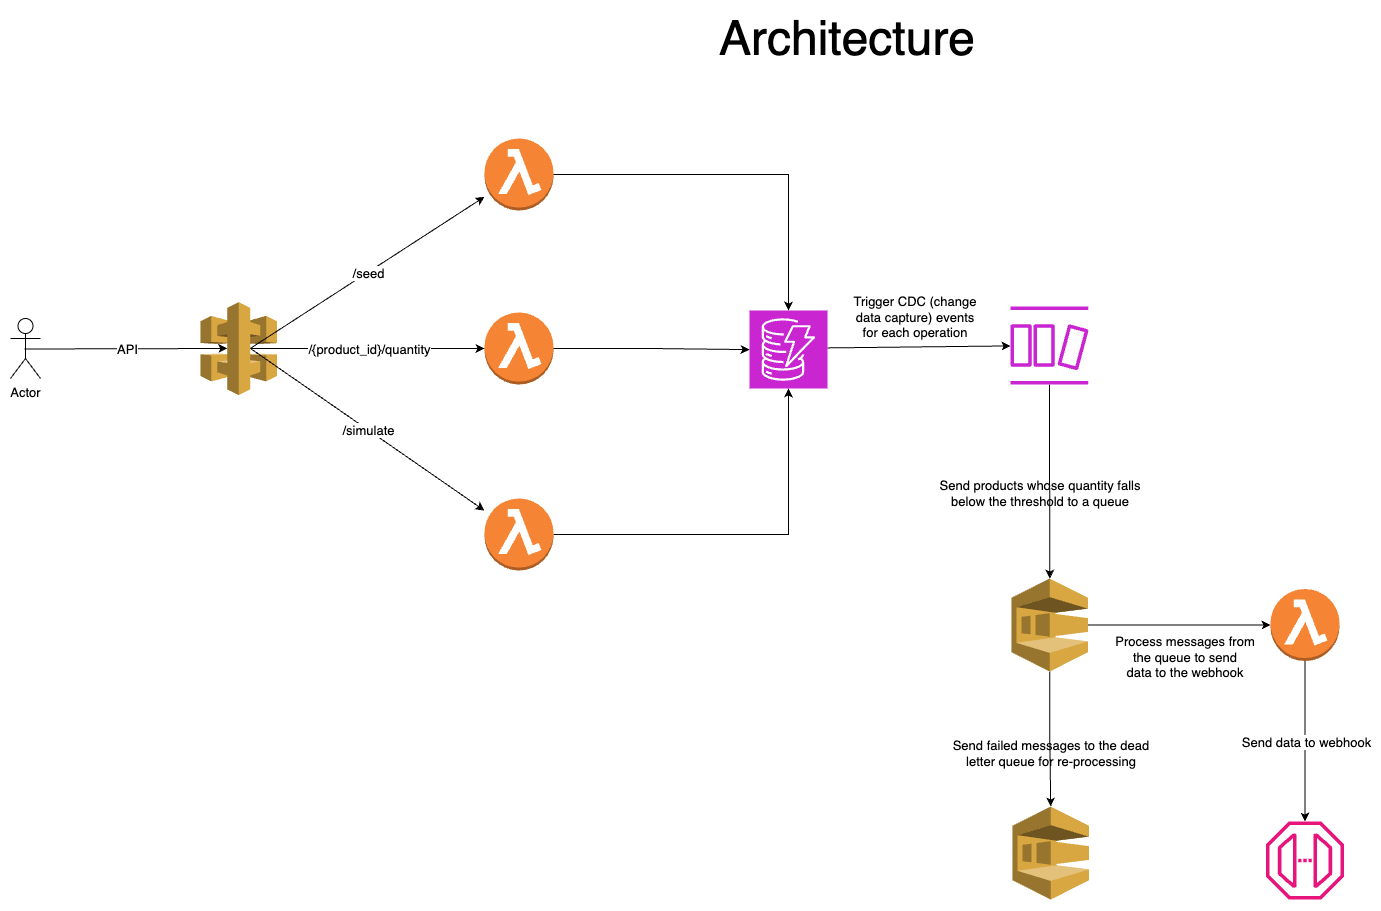
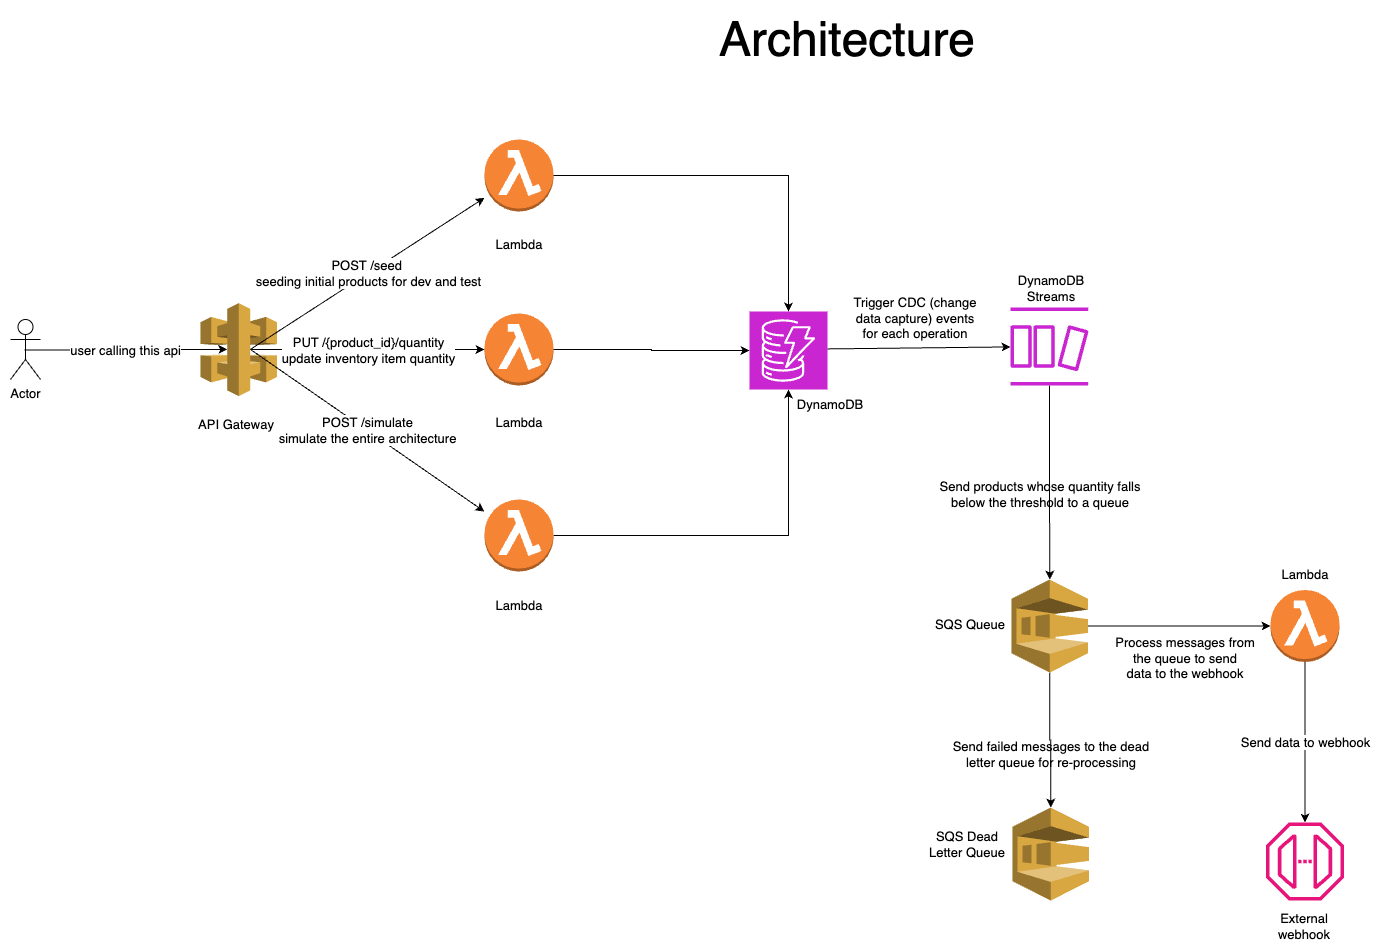
fix: add relevant comments and annotate architecture diagram

diff --git a/lib/case-study-stack.ts b/lib/case-study-stack.ts
@@ -1,3 +1,4 @@
+// The main stack with all resources defined
 import * as cdk from 'aws-cdk-lib';
 import * as ddb from 'aws-cdk-lib/aws-dynamodb';
 import * as apiGw from 'aws-cdk-lib/aws-apigatewayv2';
@@ -75,6 +76,7 @@ export class CaseStudyStack extends cdk.Stack {
       environment: { WEBHOOK_URL: webhookApi.apiEndpoint },
     });
 
+    // event source for polling messages from the queue
     sendProductDetails.fn.addEventSource(
       new SqsEventSource(inventoryThresholdQueue.queue, {
         batchSize: 20,
@@ -91,6 +93,7 @@ export class CaseStudyStack extends cdk.Stack {
       bisectBatchOnError: true,
     });
 
+    // lambda to send events to the SQS queue
     const lambdaStreamHandler = new LambdaFunction(
       this,
       'lambdaStreamHandler',
@@ -111,7 +114,7 @@ export class CaseStudyStack extends cdk.Stack {
     apiGatewayLogs.grantWrite(
       new iam.ServicePrincipal('apigateway.amazonaws.com'),
     );
-    // HTTP API
+    // HTTP API - API Gateway
     const api = new apiGw.HttpApi(this, 'productsApi', {
       corsPreflight: {
         allowMethods: [apiGw.CorsHttpMethod.ANY],
@@ -120,7 +123,7 @@ export class CaseStudyStack extends cdk.Stack {
       createDefaultStage: true,
     });
 
-    // enable access logging
+    // enable api access logging
     const stage = api.defaultStage!.node.defaultChild as apiGw.CfnStage;
     stage.accessLogSettings = {
       destinationArn: apiGatewayLogs.logGroupArn,
@@ -136,6 +139,7 @@ export class CaseStudyStack extends cdk.Stack {
       }),
     };
 
+    // lambda to seed products (for development only)
     const seedProductsFn = new LambdaFunction(this, 'seedProducts', {
       environment: { TABLE_NAME: productTable.tableName },
     });
@@ -151,6 +155,7 @@ export class CaseStudyStack extends cdk.Stack {
       ),
     });
 
+    // lambda to set inventory level of a given product
     const setInventoryLevelFn = new LambdaFunction(this, 'setInventoryLevel', {
       environment: { TABLE_NAME: productTable.tableName },
     });

diff --git a/functions/lambdaStreamHandler.ts b/functions/lambdaStreamHandler.ts
@@ -1,9 +1,10 @@
+// this lambda handles the events from the DynamoDB stream and sends them to SQS for further processing
 import { DynamoDBStreamHandler, StreamRecord } from 'aws-lambda';
 import { SQSClient, SendMessageCommand } from '@aws-sdk/client-sqs';
 import { z } from 'zod';
-import { defaultEnvVars, logger } from './helpers/schemas';
+import { DefaultEnvironmentVariablesSchema, logger } from './helpers/schemas';
 
-const envSchema = defaultEnvVars.extend({
+const EnvironmentVariablesSchema = DefaultEnvironmentVariablesSchema.extend({
   QUEUE_URL: z.string(),
 });
 
@@ -22,6 +23,7 @@ export const handler: DynamoDBStreamHandler = async (event) => {
       const { NewImage, SequenceNumber } = record.dynamodb;
       if (!NewImage || !SequenceNumber) return;
 
+      // add sequence number to return failed items if there are any
       return Object.assign(NewImage, { streamId: SequenceNumber });
     }
     return;
@@ -44,7 +46,7 @@ type FailedItem = { itemIdentifier: string };
 const sendForProcessing = async (
   records: NonNullable<Image[]>,
 ): Promise<FailedItem[]> => {
-  const envs = envSchema.parse(process.env);
+  const envs = EnvironmentVariablesSchema.parse(process.env);
   logger.info(`Sending ${records.length} records to SQS for processing`);
 
   const results = await Promise.allSettled(

diff --git a/bin/case-study.ts b/bin/case-study.ts
@@ -2,14 +2,14 @@
 import 'source-map-support/register';
 import * as cdk from 'aws-cdk-lib';
 import { AwsSolutionsChecks } from 'cdk-nag';
-import { envs } from '../lib/utils';
+import { environmentVariables } from '../lib/utils';
 import { CaseStudyStack } from '../lib/case-study-stack';
 
 const app = new cdk.App();
 new CaseStudyStack(app, 'CaseStudyStack', {
   env: {
-    account: envs.AWS_ACCOUNT_ID,
-    region: envs.AWS_REGION,
+    account: environmentVariables.AWS_ACCOUNT_ID,
+    region: environmentVariables.AWS_REGION,
   },
   removeResourcesOnStackDeletion: true,
 });
@@ -17,4 +17,4 @@ new CaseStudyStack(app, 'CaseStudyStack', {
 // Add the cdk-nag AwsSolutions Pack with extra verbose logging enabled.
 cdk.Aspects.of(app).add(new AwsSolutionsChecks({ verbose: true }));
 // project specific tags (will also help consolidate CloudWatch logs)
-cdk.Tags.of(app).add('environment', envs.ENV);
+cdk.Tags.of(app).add('environment', environmentVariables.ENV);

diff --git a/functions/helpers/schemas.ts b/functions/helpers/schemas.ts
@@ -1,10 +1,17 @@
 import { z } from 'zod';
 import { Logger, LogLevel } from '@aws-lambda-powertools/logger';
 
-export const defaultEnvVars = z.object({
+export const DefaultEnvironmentVariablesSchema = z.object({
   AWS_REGION: z.string().default('eu-west-1'),
 });
 
+/**
+ * Builds a lambda specific response to send via API Gateway
+ *
+ * @param {any} data - data with either success or errors sent as a response
+ * @param {number} statusCode - appropriate HTTP status code
+ * @returns {object} - lambda specific response object
+ */
 export const sendResponse = (data: any, statusCode: number = 200) => {
   const body = { ...data, success: statusCode >= 200 && statusCode < 400 };
 
@@ -17,6 +24,7 @@ export const sendResponse = (data: any, statusCode: number = 200) => {
   };
 };
 
+// logger for system wide logs
 export const logger = new Logger({
   serviceName: 'case-study',
   logLevel: LogLevel.INFO,

diff --git a/lib/utils.ts b/lib/utils.ts
@@ -13,7 +13,7 @@ import {
 import { IConstruct, Construct } from 'constructs';
 import { z } from 'zod';
 
-export const envs = z
+export const environmentVariables = z
   .object({
     AWS_ACCOUNT_ID: z.string(),
     AWS_REGION: z.string().default('eu-west-1'),
@@ -21,8 +21,12 @@ export const envs = z
   })
   .parse(process.env);
 
-export const STACK_NAME = `CaseStudy-${envs.ENV}`;
+export const STACK_NAME = `CaseStudy-${environmentVariables.ENV}`;
 
+/**
+ * Adds a removal policy of `destroy` to all resources.
+ * This is helpful for development or testing environments
+ */
 export class ApplyDestroyPolicyAspect implements IAspect {
   public visit(node: IConstruct): void {
     if (node instanceof CfnResource) {

diff --git a/functions/simulateArch.ts b/functions/simulateArch.ts
@@ -1,9 +1,15 @@
+// this lambda is used to simulate the entire architecture and how it works. To be used in development only!
 import { APIGatewayProxyHandlerV2 } from 'aws-lambda';
 import { z } from 'zod';
-import { defaultEnvVars, logger, sendResponse, sleep } from './helpers/schemas';
 import { product } from './helpers/models';
+import {
+  DefaultEnvironmentVariablesSchema,
+  logger,
+  sendResponse,
+  sleep,
+} from './helpers/schemas';
 
-const envSchema = defaultEnvVars.extend({
+const envSchema = DefaultEnvironmentVariablesSchema.extend({
   TABLE_NAME: z.string(),
 });
 

diff --git a/functions/seedProducts.ts b/functions/seedProducts.ts
@@ -1,10 +1,15 @@
+// this lambda seeds initial products that can be used for testing purposes
 import { z } from 'zod';
 import { APIGatewayProxyHandlerV2 } from 'aws-lambda';
-import { defaultEnvVars, logger, sendResponse } from './helpers/schemas';
+import {
+  DefaultEnvironmentVariablesSchema,
+  logger,
+  sendResponse,
+} from './helpers/schemas';
 import { product } from './helpers/models';
 import { products } from './helpers/seed';
 
-const envSchema = defaultEnvVars.extend({
+const envSchema = DefaultEnvironmentVariablesSchema.extend({
   TABLE_NAME: z.string(),
 });
 

diff --git a/functions/setInventoryLevel.ts b/functions/setInventoryLevel.ts
@@ -1,9 +1,14 @@
+// this lambda sets the inventory level (quantity) for the given product
 import { APIGatewayProxyHandlerV2 } from 'aws-lambda';
 import { z } from 'zod';
-import { defaultEnvVars, logger, sendResponse } from './helpers/schemas';
+import {
+  DefaultEnvironmentVariablesSchema,
+  logger,
+  sendResponse,
+} from './helpers/schemas';
 import { product } from './helpers/models';
 
-const envSchema = defaultEnvVars.extend({
+const envSchema = DefaultEnvironmentVariablesSchema.extend({
   TABLE_NAME: z.string(),
 });
 

diff --git a/functions/sendProductDetails.ts b/functions/sendProductDetails.ts
@@ -1,9 +1,10 @@
+// this lambda processes messages from the SQS queue and sends them to the external Webhook
 import { SQSHandler } from 'aws-lambda';
 import { unmarshall } from '@aws-sdk/util-dynamodb';
-import { defaultEnvVars, logger } from './helpers/schemas';
+import { DefaultEnvironmentVariablesSchema, logger } from './helpers/schemas';
 import { z } from 'zod';
 
-const envSchema = defaultEnvVars.extend({
+const envSchema = DefaultEnvironmentVariablesSchema.extend({
   WEBHOOK_URL: z.string(),
 });
 

diff --git a/functions/helpers/models.ts b/functions/helpers/models.ts
@@ -1,3 +1,4 @@
+// the product model stored in dynamodb
 import { Entity } from 'electrodb';
 import { nanoid } from 'nanoid';
 import { DynamoDBClient } from '@aws-sdk/client-dynamodb';

diff --git a/functions/sampleWebhookApi.ts b/functions/sampleWebhookApi.ts
@@ -1,3 +1,4 @@
+// this is the handler for the external webhook API
 import { LambdaFunctionURLHandler } from 'aws-lambda';
 import { logger, sendResponse } from './helpers/schemas';
 
